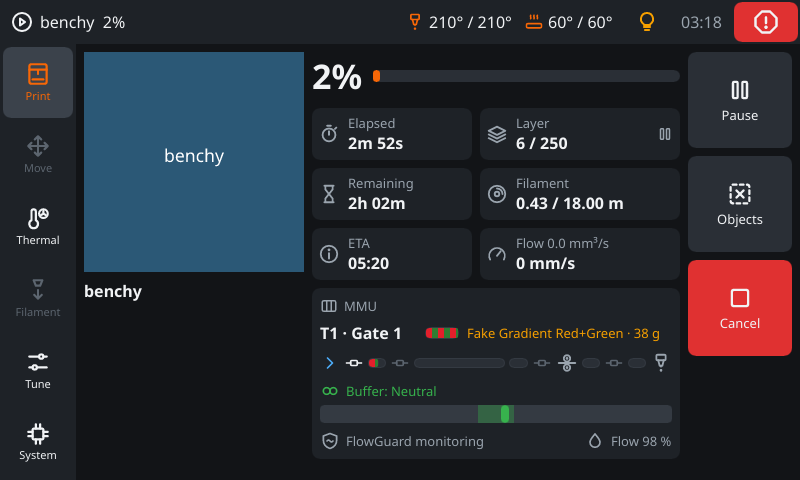
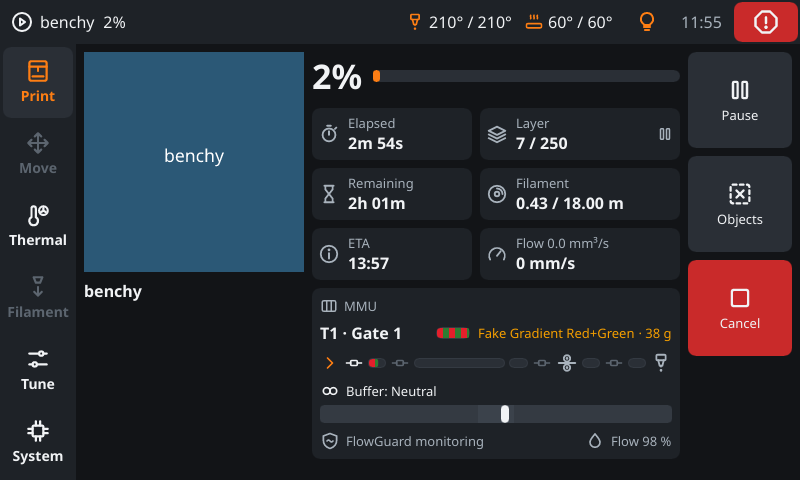
Values at the end of a line stay whole; network activity in the status bar; README screenshots
Print progress, spool weights and the Wi-Fi address no longer get cut
off with a long name: only the text before them is shortened. Changing
the network shows in the status bar like other running work. The README
screenshots show the new theme.

diff --git a/crates/app/src/presenter.rs b/crates/app/src/presenter.rs
@@ -749,7 +749,7 @@ impl Presenter {
         printer.set_has_spool(active.is_some());
         printer.set_spool_id(active.map_or(-1, |spool| i32::try_from(spool.id).unwrap_or(-1)));
         printer.set_spool_title(active.map(Spool::title).unwrap_or_default().into());
-        printer.set_spool_detail(active.map(view::spool_detail).unwrap_or_default().into());
+        printer.set_spool_material(active.map(|spool| spool.material.as_str()).unwrap_or_default().into());
         printer.set_spool_weight(active.map(view::spool_remaining).unwrap_or_default().into());
         let bar = color_bar(active.map(|spool| spool.colors.as_slice()).unwrap_or_default());
         printer.set_spool_color(bar.0);

diff --git a/crates/app/src/view.rs b/crates/app/src/view.rs
@@ -106,15 +106,6 @@ pub fn spool_remaining(spool: &Spool) -> String {
     spool.remaining_weight.map(format::filament_weight).unwrap_or_default()
 }
 
-/// Material and what is left, for example `ABS+ · 613 g`.
-pub fn spool_detail(spool: &Spool) -> String {
-    [spool.material.clone(), spool_remaining(spool)]
-        .into_iter()
-        .filter(|part| !part.is_empty())
-        .collect::<Vec<_>>()
-        .join(" · ")
-}
-
 /// The spool as a preset on the temperature page, for example `ABS+  240/120`.
 pub fn spool_preset_text(spool: &Spool) -> Option<String> {
     let nozzle = spool.extruder_temp?;

diff --git a/crates/app/src/items.rs b/crates/app/src/items.rs
@@ -55,7 +55,8 @@ pub(crate) fn spool_rows(spools: &[Spool], lanes: &[Lane]) -> Vec<SpoolItem> {
             SpoolItem {
                 id: spool.id as i32,
                 title: spool.title().into(),
-                detail: view::spool_detail(spool).into(),
+                material: spool.material.as_str().into(),
+                remaining: view::spool_remaining(spool).into(),
                 color: bar.0,
                 color_2: bar.1,
                 color_3: bar.2,

diff --git a/docs/architecture.md b/docs/architecture.md
@@ -125,8 +125,8 @@ history).
 - `app.slint`: window 800x480 (grows with the screen), status bar, navigation rail, page, overlays.
 - `state.slint`: globals `Printer` (read-only), `UiSettings`, `Actions` (callbacks), `Navigation`, `Confirm`, `StateIcons`.
 - `components/`: `controls.slint` (IconButton, StepSelector, Card, ValueTile, ProgressBar, ScrollList, TouchSlider), `overlays.slint`
-  (confirmation, messages flyout, on-screen keyboard, text input), `chrome.slint` (status bar with the newest message,
-  navigation). Messages (errors and informations) are kept in `status_log.rs`, pure logic that the presenter shows.
+  (confirmation, messages flyout, on-screen keyboard, text input), `chrome.slint` (status bar with what is running and the newest
+  message, navigation). Messages (errors and informations) are kept in `status_log.rs`, pure logic that the presenter shows.
 - `pages/`: print, move, temperature, tune, filament (with Happy Hare the tabs MMU in `mmu.slint` with the dialogs in `mmu-dialogs.slint`, Extruder, and Service in `mmu-service.slint`; otherwise the extruder alone), console (with the macro list), system, settings, connection.
 - Pages only read globals and only call `Actions`/`Confirm`; printer-related logic belongs in the core.
 - Touch rules: controls at least 56 px (`Theme.touch`), confirmation for cancel, emergency stop and host actions;
